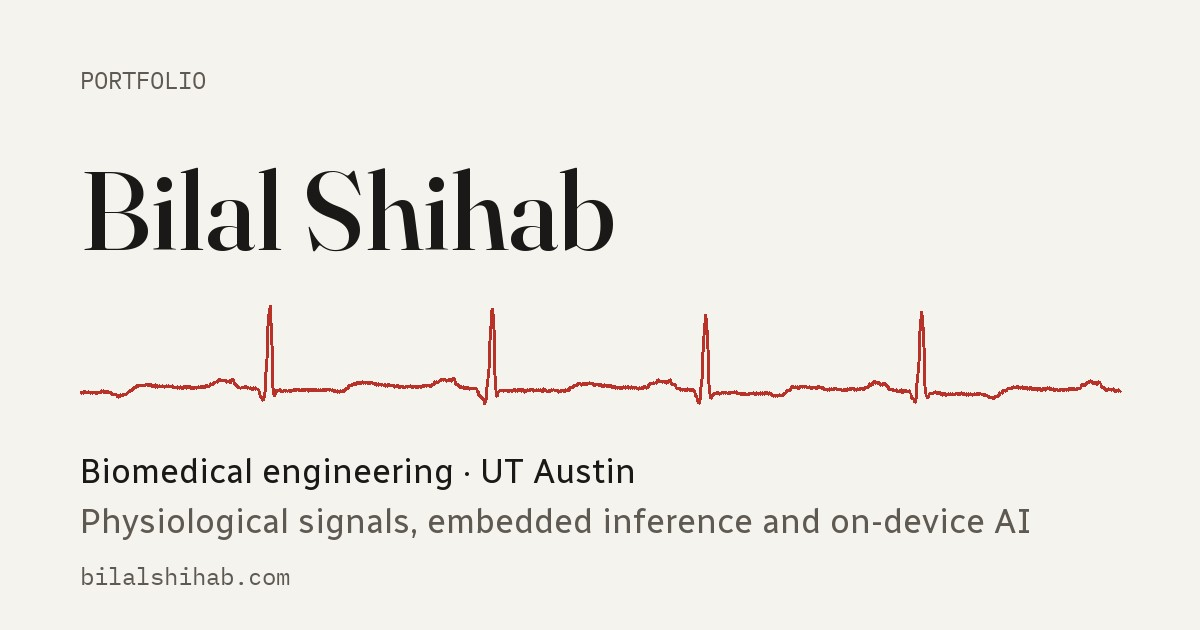
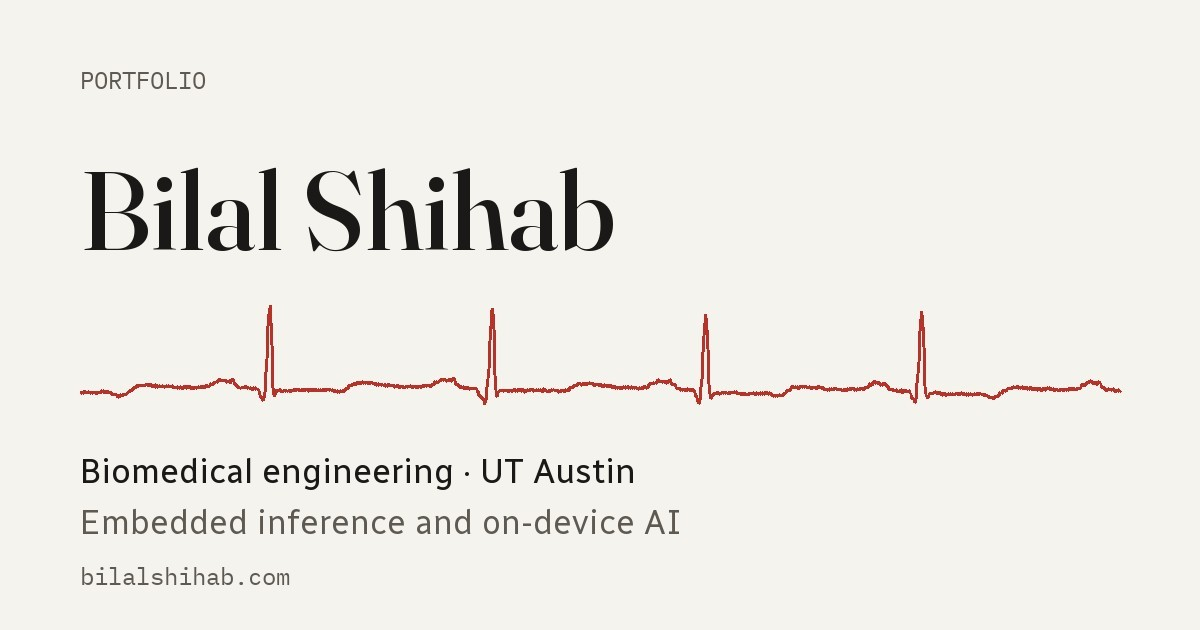
Link preview: drop 'physiological signals' from the home share card and description

Changed region(s): [[0.0617, 0.8143, 0.8633, 0.8746]]

diff --git a/index.html b/index.html
@@ -4,13 +4,13 @@
 <meta charset="utf-8">
 <meta name="viewport" content="width=device-width, initial-scale=1">
 <title>Bilal Shihab</title>
-<meta name="description" content="Biomedical engineering student at UT Austin building embedded inference, physiological signal processing and on-device clinical AI.">
+<meta name="description" content="Biomedical engineering student at UT Austin building embedded inference and on-device clinical AI.">
 <meta property="og:type" content="website">
 <meta property="og:site_name" content="Bilal Shihab">
 <meta property="og:title" content="Bilal Shihab">
-<meta property="og:description" content="Biomedical engineering student at UT Austin building embedded inference, physiological signal processing and on-device clinical AI.">
+<meta property="og:description" content="Biomedical engineering student at UT Austin building embedded inference and on-device clinical AI.">
 <meta property="og:url" content="https://bilalshihab.com/">
-<meta property="og:image" content="https://bilalshihab.com/og.jpg">
+<meta property="og:image" content="https://bilalshihab.com/og.jpg?v=2">
 <meta property="og:image:width" content="1200">
 <meta property="og:image:height" content="630">
 <meta name="twitter:card" content="summary_large_image">
